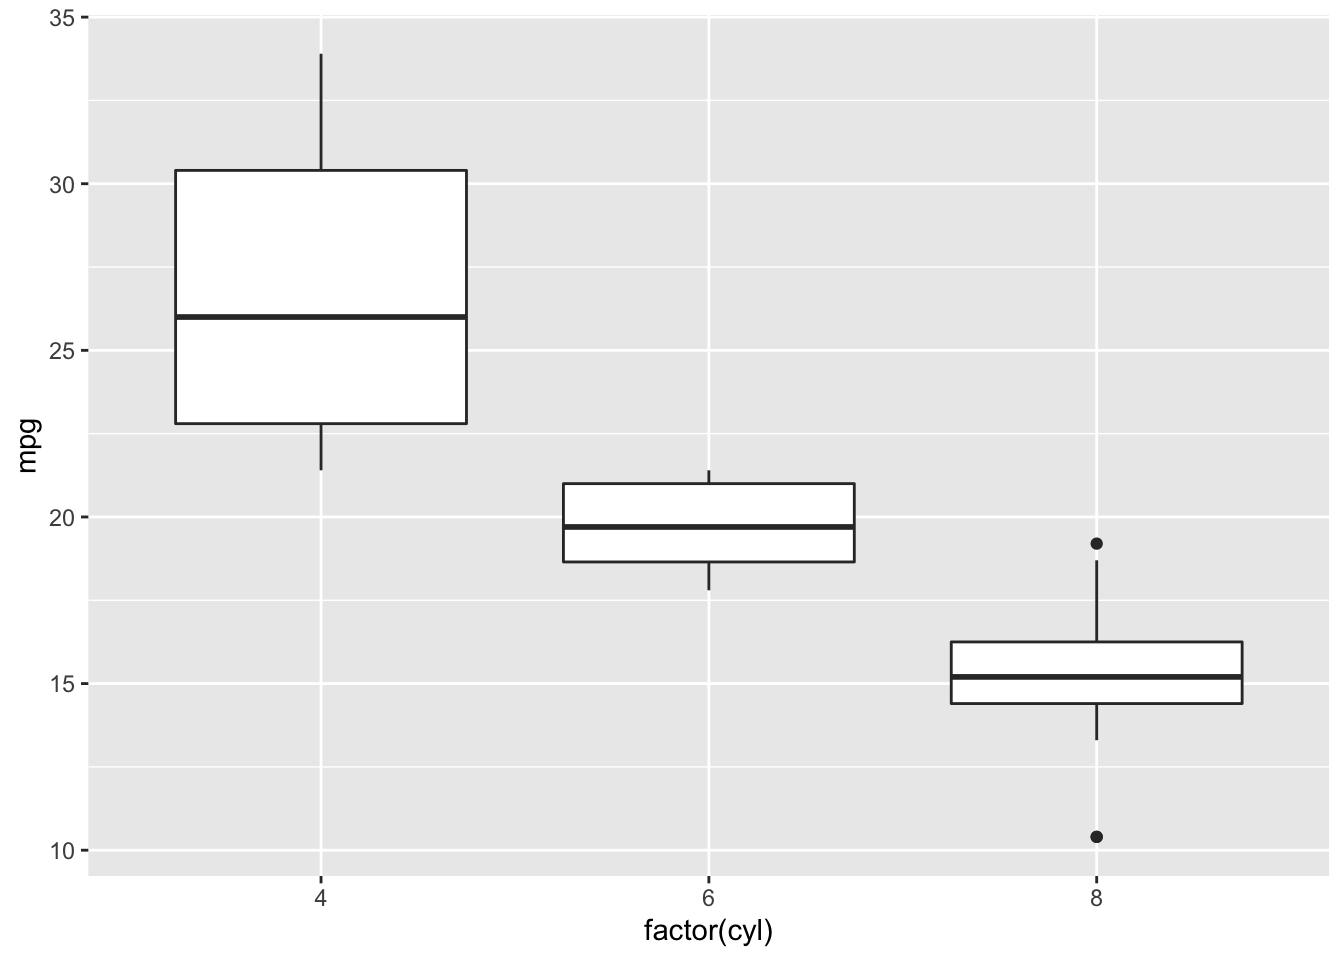
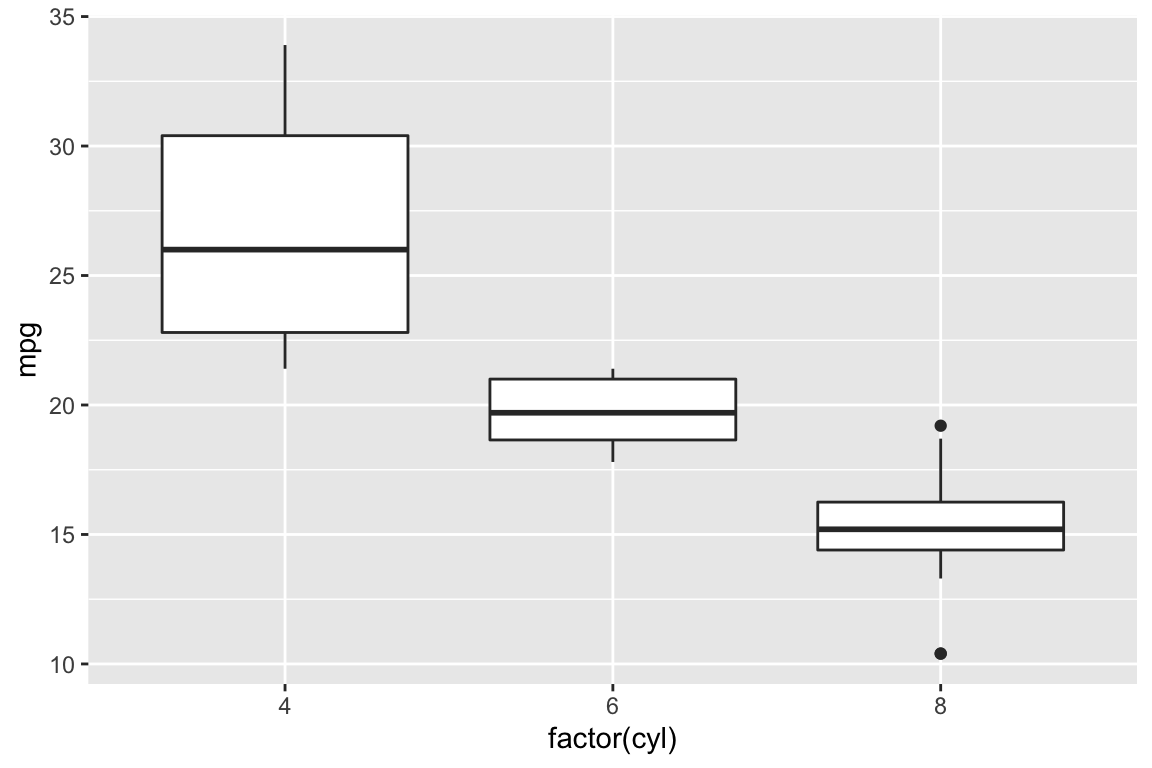
Almost finished Day 1 curriculum

diff --git a/docs/day-1.html b/docs/day-1.html
@@ -314,15 +314,15 @@ $(document).ready(function () {
 <div id="getting-started" class="section level4">
 <h4>Getting Started</h4>
 <p>If you haven’t already, start downloading R and R Studio. See the instructions <a href="index.html">here</a> under “Getting Started.”</p>
-<p>Today’s complete code is linked <a href="">here</a>.</p>
+<p>After today’s lesson, I’ll post my code here. You can also follow along below.</p>
 </div>
 <div id="creating-an-rmarkdown-document" class="section level4">
 <h4>Creating an RMarkdown Document</h4>
 <ul>
-<li>Write text, embed code chunks</li>
-<li>R is the language (in console and code chunks)</li>
-<li>RStudio is the programming environment</li>
-<li>RMarkdown is a markup language for combining text with code
+<li>Write text and embed code chunks</li>
+<li>R is the <em>language</em> (in the console and in code chunks)</li>
+<li>RStudio is the <em>programming environment</em></li>
+<li>RMarkdown is a <em>markup language</em> for combining text with code
 <ul>
 <li>Produce reproducible reports where the code is right there</li>
 <li>Export to HTML, PDF, MS Word (how I created website)</li>
@@ -351,7 +351,7 @@ $(document).ready(function () {
 <h4>Introducing… the Tidyverse</h4>
 <p>Plotting with base R is… not super fun.</p>
 <pre class="r"><code>plot(pressure)</code></pre>
-<p><img src="day-1_files/figure-html/unnamed-chunk-2-1.png" width="672" /></p>
+<p><img src="day-1_files/figure-html/unnamed-chunk-2-1.png" width="576" /></p>
 <p>Instead, we plot with <code>ggplot2</code>, a popular open-source package. <code>ggplot2</code> is an implementation of Wilkinson’s <em>Grammar of Graphics</em>, which means that you combine plot building blocks to create your visualization.</p>
 <p><code>ggplot2</code> is part of the Tidyverse, a series of open-source R packages that “share an underlying design philosophy, grammar, and data structures”. (See the <a href="https://www.tidyverse.org/">website</a> and <a href="https://github.com/tidyverse/tidyverse">GitHub repository</a>.)</p>
 <p>The main packages are <code>ggplot2</code>, <code>dplyr</code>, <code>tidyr</code>, <code>readr</code>, <code>purrr</code>, <code>tibble</code>, <code>stringr</code>, and <code>forcats</code>, but we will mostly focus on <strong>ggplot2</strong> (for data visualization) and <strong>dplyr</strong> (for data wrangling).</p>
@@ -383,17 +383,17 @@ $(document).ready(function () {
 <pre class="r"><code># a basic scatterplot
 ggplot(data = mtcars, aes(x = wt, y = mpg)) +
   geom_point()</code></pre>
-<p><img src="day-1_files/figure-html/Scatterplot-1.png" width="672" /></p>
+<p><img src="day-1_files/figure-html/Scatterplot-1.png" width="576" /></p>
 <p>Note: You map variables to aesthetics within <code>aes()</code> and set fixed visual cues outside <code>aes()</code>. If I want all my points to be blue, I use the color parameter outside <code>aes()</code>:</p>
 <pre class="r"><code># adding color
-ggplot(data = mtcars, aes(x = wt, y = mpg), color = &quot;blue&quot;) +
-  geom_point()</code></pre>
-<p><img src="day-1_files/figure-html/unnamed-chunk-5-1.png" width="672" /></p>
+ggplot(data = mtcars, aes(x = wt, y = mpg)) +
+  geom_point(color = &quot;blue&quot;)</code></pre>
+<p><img src="day-1_files/figure-html/unnamed-chunk-5-1.png" width="576" /></p>
 <p>If I want to map color to a variable, I use the color parameter inside <code>aes()</code>:</p>
 <pre class="r"><code># mapping a variable to color
-ggplot(data = mtcars, aes(x = wt, y = mpg, color = cyl)) +
-  geom_point()</code></pre>
-<p><img src="day-1_files/figure-html/unnamed-chunk-6-1.png" width="672" /></p>
+ggplot(data = mtcars, aes(x = wt, y = mpg)) +
+  geom_point(aes(color = cyl))</code></pre>
+<p><img src="day-1_files/figure-html/unnamed-chunk-6-1.png" width="576" /></p>
 </div>
 <div id="example-2-a-box-plot" class="section level4">
 <h4>Example 2: A Box Plot</h4>
@@ -416,7 +416,7 @@ ggplot(data = mtcars, aes(x = wt, y = mpg, color = cyl)) +
 <pre class="r"><code># a basic boxplot
 ggplot(data = mtcars, aes(x = factor(cyl), y = mpg)) +
   geom_boxplot()</code></pre>
-<p><img src="day-1_files/figure-html/Bar_Chart-1.png" width="672" /></p>
+<p><img src="day-1_files/figure-html/Bar_Chart-1.png" width="576" /></p>
 </div>
 <div id="about-available-data-sets" class="section level4">
 <h4>About Available Data Sets</h4>
@@ -441,12 +441,30 @@ ggplot(data = mtcars, aes(x = factor(cyl), y = mpg)) +
 <li>Sort your data</li>
 </ul></li>
 </ul>
-<p>examples……..</p>
+<p>For example:</p>
+<pre class="r"><code>library(ggthemes)
+
+june_weather &lt;- airquality %&gt;%
+  filter(Month == 6) %&gt;% # only June weather
+  select(Day, Temp) # only columns we need
+
+june_plot &lt;- ggplot(data = june_weather, aes(x = Day, y =  Temp)) +
+  geom_point() + # make our points purple
+  geom_line() + # add a line
+  labs(title = &quot;Temperatures in NY, June 1973&quot;,
+       x = &quot;Day&quot;,
+       y = &quot;Temperature (°F)&quot;) +
+  theme_wsj() +
+  theme(plot.title = element_text(size = 18))
+
+june_plot</code></pre>
+<p><img src="day-1_files/figure-html/June_Weather-1.png" width="576" /></p>
 <div id="can-i-practice-more" class="section level4">
 <h4>Can I practice more?</h4>
 <p>Yes! So glad you asked. An awesome way to learn data visualization is through “copy the master” experiments, where you try to recreate an existing graph as closely as possible.</p>
 <p>You’ll need to dig into the <code>ggplot2</code> documentation. I recommend starting by looking at <code>labs()</code> and <code>theme()</code>.</p>
 <p>Graphs to copy:</p>
+<p>I’ll reveal the code next week!</p>
 </div>
 </div>
 
@@ -454,7 +472,7 @@ ggplot(data = mtcars, aes(x = factor(cyl), y = mpg)) +
   <hr>
   <p>Website created by Kathleen Hablutzel, NCSSM '19, Smith College SDS+CS '23.</p>
   <p>See the <a href="https://github.com/krhablutzel/srip-bootcamp">GitHub repo</a>.</p>
-  <p><b>Credit:</b>Content adapted from work by <a href="http://www.science.smith.edu/~bbaumer/w/">Ben Baumer</a> and <a href="http://www.science.smith.edu/~jcrouser/">R. Jordan Crouser</a> for Smith College's SDS 192 Introduction to Data Science course.</p>
+  <p><b>Credit:</b> Content adapted from work by <a href="http://www.science.smith.edu/~bbaumer/w/">Ben Baumer</a> and <a href="http://www.science.smith.edu/~jcrouser/">R. Jordan Crouser</a> for Smith College's SDS 192 Introduction to Data Science course.</p>
 </div>
 
 
@@ -491,7 +509,7 @@ $(document).ready(function () {
 <!-- code folding -->
 <script>
 $(document).ready(function () {
-  window.initializeCodeFolding("hide" === "show");
+  window.initializeCodeFolding("show" === "show");
 });
 </script>
 

diff --git a/docs/day-2.html b/docs/day-2.html
@@ -12,7 +12,7 @@
 <meta name="author" content="Kathleen Hablutzel" />
 
 
-<title>Welcome to SRIP Data Science Bootcamp!</title>
+<title>Day 2: Adding Color in ggplot2</title>
 
 <script src="site_libs/jquery-1.11.3/jquery.min.js"></script>
 <meta name="viewport" content="width=device-width, initial-scale=1" />
@@ -302,55 +302,49 @@ $(document).ready(function () {
 
 
 
-<h1 class="title toc-ignore">Welcome to SRIP Data Science Bootcamp!</h1>
+<h1 class="title toc-ignore">Day 2: Adding Color in ggplot2</h1>
 <h4 class="author">Kathleen Hablutzel</h4>
-<h4 class="date">6/6/2020</h4>
+<h4 class="date">6/11/2020</h4>
 
 </div>
 
 
-<p><img src="index_files/figure-html/Example_Plot-1.png" width="864" /></p>
-<div id="what-youll-learn" class="section level2">
-<h2>What You’ll Learn</h2>
-<div id="skills" class="section level4">
-<h4>Skills</h4>
-<ul>
-<li>Data Visualization</li>
-<li>Data Wrangling</li>
-</ul>
-</div>
-<div id="tools" class="section level4">
-<h4>Tools</h4>
-<ul>
-<li>R, RStudio, Tidyverse Packages</li>
-<li>GitHub</li>
-</ul>
-<p>My goal is to expose you to the first half of a college-level Introduction to Data Science course. We’ll meet once a week to code together (tentatively Thursday nights at 8), and then I will provide additional resources if you’d like to delve deeper on each topic.</p>
-<p><em>Note: You are welcome at all five weeks of SRIP social activities even if your program is shorter than 5 weeks. I will have content for all 5 weeks of SRIP, but I will also provide a reasonable conclusion for those who want to stop after 3 weeks.</em></p>
-</div>
+<div id="page-under-construction" class="section level2">
+<h2>Page Under Construction</h2>
 </div>
 <div id="getting-started" class="section level2">
 <h2>Getting Started</h2>
-<p>Please take these steps before our first day:</p>
+<p>Today we will:</p>
 <ul>
-<li><a href="https://cloud.r-project.org/">Download and install R</a></li>
-<li><a href="https://rstudio.com/products/rstudio/download/">Download and install RStudio</a><a href="#fn1" class="footnoteRef" id="fnref1"><sup>1</sup></a></li>
-<li><a href="https://github.com/">Create a GitHub account</a></li>
+<li>Add colors (colorbrewer)</li>
+<li>Add a theme -&gt; point to documentation</li>
+<li>Learn about visual cues</li>
+<li>Make our R Markdown documents more pretty (chunk options and YAML headers)</li>
+<li>Extension: copy the master examples (a couple graphs for students to copy, then I’ll post the code next week and they can see how close they got)</li>
 </ul>
-<p>Now, go into RStudio. In the console at the bottom, install the Tidyverse packages:</p>
-<pre class="r"><code>install.packages(&quot;tidyverse&quot;)</code></pre>
-<p>If you can run the following code successfully (in the console is fine), you’re ready to go!</p>
-<pre class="r"><code>library(tidyverse)
-ggplot(data = mtcars, aes(x = wt, y = mpg)) +
-  geom_point()</code></pre>
-<p><img src="index_files/figure-html/Example_Code-1.png" width="384" /></p>
-<p>If you run into any problems, send me a direct message on Slack and we’ll troubleshoot.</p>
 </div>
-<div class="footnotes">
-<hr />
-<ol>
-<li id="fn1"><p>If you have a Chromebook, you’ll have to work from an RStudio server. Slack me and we’ll get you up and running.<a href="#fnref1">↩</a></p></li>
-</ol>
+<div id="adding-colors-and-themes" class="section level2">
+<h2>Adding Colors and Themes</h2>
+<p>Now that we’ve learned how to create chart elements with <code>geom_*()</code> (where * could be any element), let’s add some color to our visualizations. We added elements using the <code>+</code> operator, and we can add color and themes using <code>+</code> as well!</p>
+<div id="adding-themes" class="section level4">
+<h4>Adding Themes</h4>
+<p>Themes are a quick way to get a great-looking plot. Download the <code>ggthemes</code> package, load it, and just add them on!</p>
+<pre class="r"><code>library(ggthemes)
+
+ggplot(data = mtcars, aes(x = factor(cyl), y = mpg)) +
+  geom_boxplot() +
+  theme_fivethirtyeight()</code></pre>
+<p><img src="day-2_files/figure-html/Adding_Themes-1.png" width="576" /></p>
+<p><a href="https://jrnold.github.io/ggthemes/reference/index.html">See the documentation</a> for a list of available themes.</p>
+</div>
+</div>
+<div id="visual-cues" class="section level2">
+<h2>Visual Cues</h2>
+<ul>
+<li>Strongest/weakest cues</li>
+<li>Why stacked bar charts &gt;&gt;&gt;&gt;&gt;&gt;&gt;&gt; pie charts</li>
+</ul>
+<p>Ranking visual cues, from position (strongest) to color hue (weakest): docs/day-1_files/figure-html/visual-cues.png (link not working rn) Source: Nathan Yau, <em>Data Points</em>, 2013</p>
 </div>
 
 <div id="footer">

diff --git a/_footer.html b/_footer.html
@@ -2,5 +2,5 @@
   <hr>
   <p>Website created by Kathleen Hablutzel, NCSSM '19, Smith College SDS+CS '23.</p>
   <p>See the <a href="https://github.com/krhablutzel/srip-bootcamp">GitHub repo</a>.</p>
-  <p><b>Credit:</b>Content adapted from work by <a href="http://www.science.smith.edu/~bbaumer/w/">Ben Baumer</a> and <a href="http://www.science.smith.edu/~jcrouser/">R. Jordan Crouser</a> for Smith College's SDS 192 Introduction to Data Science course.</p>
+  <p><b>Credit:</b> Content adapted from work by <a href="http://www.science.smith.edu/~bbaumer/w/">Ben Baumer</a> and <a href="http://www.science.smith.edu/~jcrouser/">R. Jordan Crouser</a> for Smith College's SDS 192 Introduction to Data Science course.</p>
 </div>
